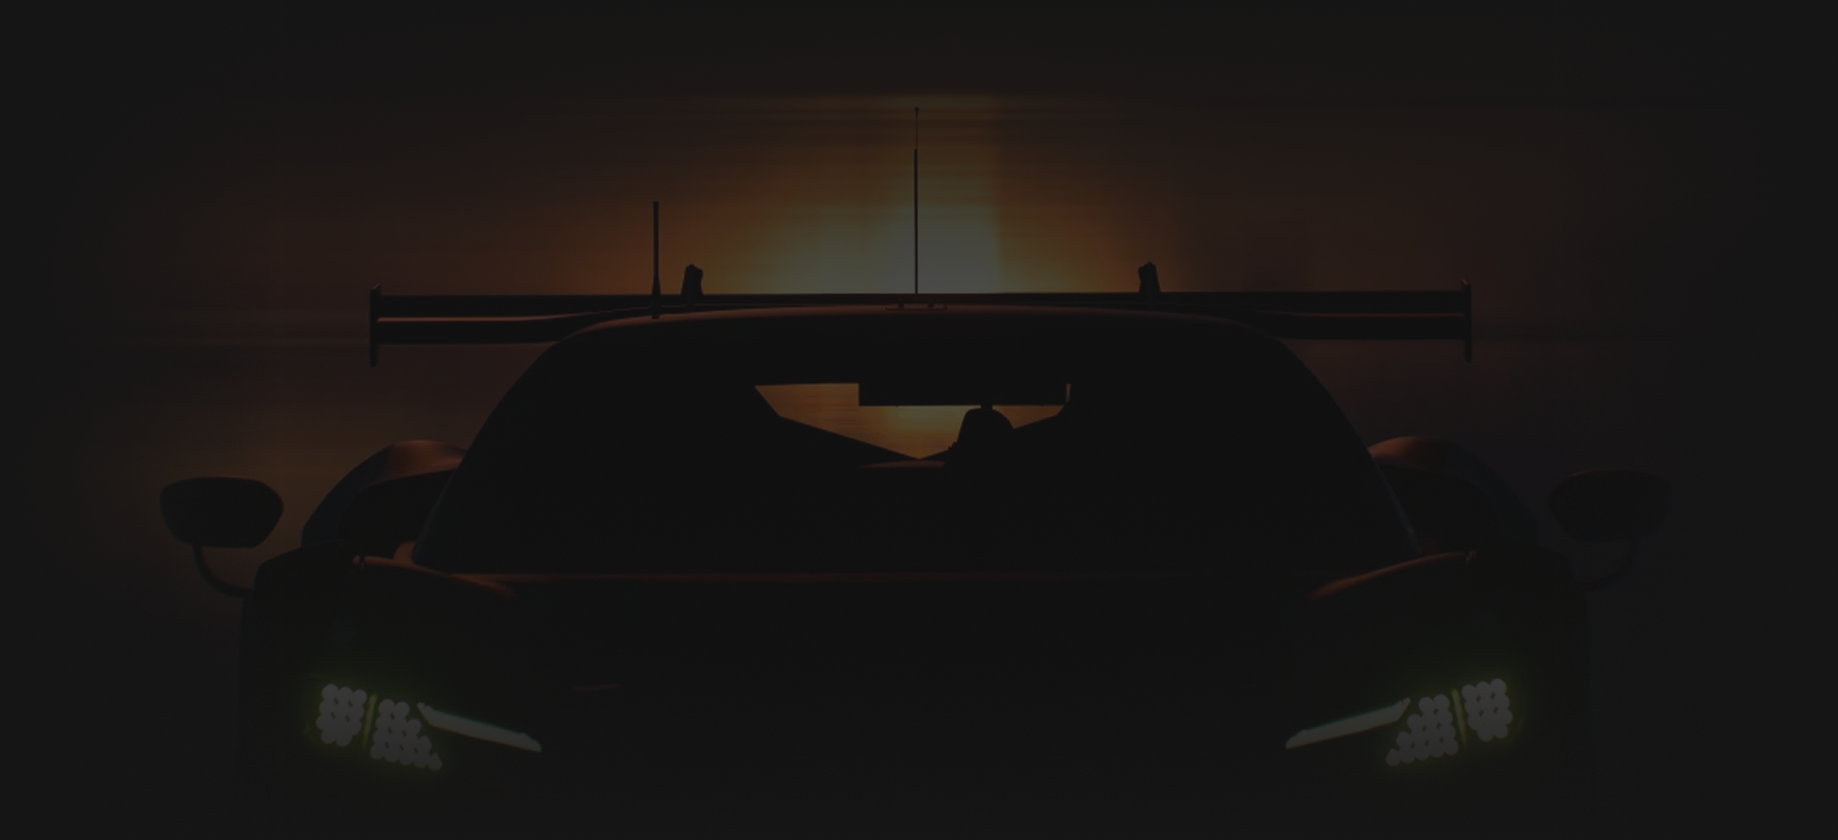
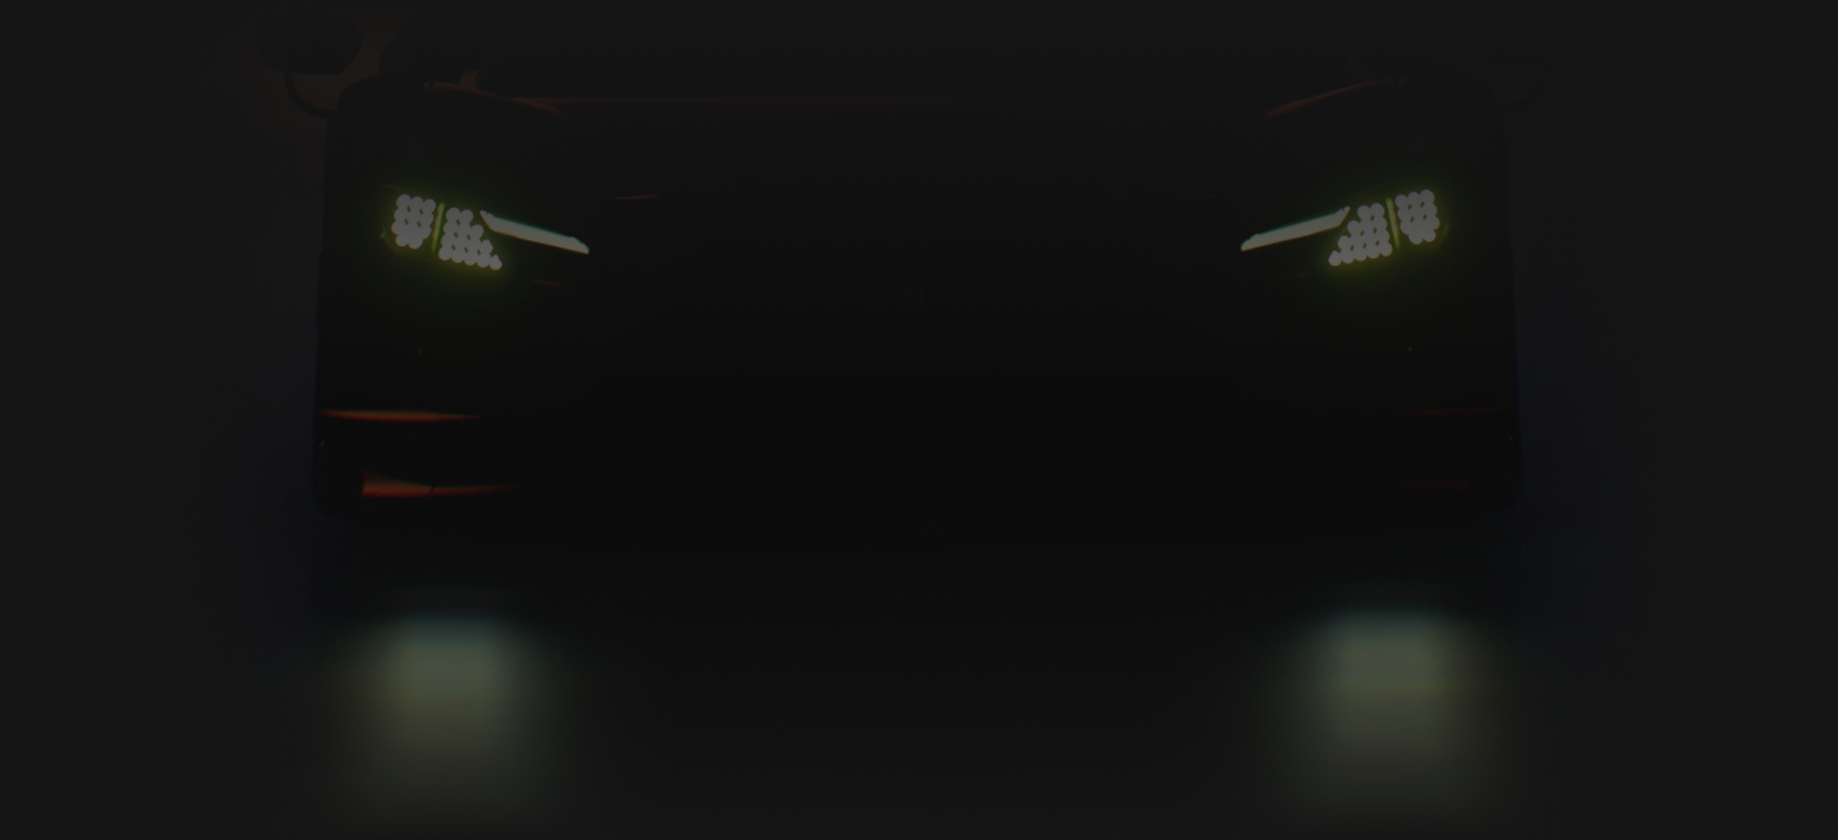
feat: add new coming soon league form; create report panel; add new mobile hero image

diff --git a/src/features/leagues/forms/Create/EmptyCreate/EmptyCreate.tsx b/src/features/leagues/forms/Create/EmptyCreate/EmptyCreate.tsx
@@ -1,0 +1,24 @@
+import { navigate } from "@/app/navigation/navigation";
+import ArrowForward from "@assets/Icon/Arrow_Forward.svg?react"
+import FormBlock from "@/components/Forms/FormBlock/FormBlock";
+
+const EmptyCreate = () => {
+  return (
+    <FormBlock
+      title={"Create New League"}
+      question="Coming Soon"
+      helperMessage="You can create your very own league after the VIP GT World Championship’s grand final wraps up on 26 Sep 2026."
+      buttons={{
+        onContinue: {
+          label: "Back to Homepage",
+          action: () => {
+            navigate("/");
+          },
+          rightIcon: <ArrowForward />,
+        },
+      }}
+    />
+  );
+};
+
+export default EmptyCreate;

diff --git a/src/features/panels/reportIncident/ReportIncident.tsx b/src/features/panels/reportIncident/ReportIncident.tsx
@@ -1,0 +1,17 @@
+import ReportIcon from "@assets/Icon/Report.svg?react";
+import EmptyMessage from "@/components/Messages/EmptyMessage/EmptyMessage";
+import PanelLayout from "@/components/Panels/components/PanelLayout/PanelLayout";
+
+const ReportIncident = () => {
+  return (
+    <PanelLayout panelTitle="Report Incident" panelTitleIcon={<ReportIcon />}>
+      <EmptyMessage
+        icon={<ReportIcon />}
+        title="Coming Soon"
+        subtitle="Report any incidents to the Stewards when this feature is released."
+      />
+    </PanelLayout>
+  );
+};
+
+export default ReportIncident;

diff --git a/src/pages/ComingSoon/ComingSoon.styles.ts b/src/pages/ComingSoon/ComingSoon.styles.ts
@@ -1,0 +1,14 @@
+import styled from "styled-components";
+import { designTokens } from "@/app/design/tokens";
+
+const { layout, colors } = designTokens;
+
+export const PageWrapper = styled.div`
+  display: flex;
+  width: 100%;
+  flex-direction: column;
+  align-items: center;
+  justify-content: center;
+  padding: ${layout.space.xxxLarge} ${layout.space.medium};
+  background-color: ${colors.base.base2};
+`;

diff --git a/src/pages/ComingSoon/ComingSoon.tsx b/src/pages/ComingSoon/ComingSoon.tsx
@@ -1,0 +1,13 @@
+import EmptyCreate from "@/features/leagues/forms/Create/EmptyCreate/EmptyCreate"
+import { PageWrapper } from "./ComingSoon.styles"
+
+
+const ComingSoon = () => {
+  return (
+    <PageWrapper>
+      <EmptyCreate />
+    </PageWrapper>
+  )
+}
+
+export default ComingSoon

diff --git a/src/pages/League/components/tabs/Schedule/ScheduleLineup.tsx b/src/pages/League/components/tabs/Schedule/ScheduleLineup.tsx
@@ -1,5 +1,6 @@
 import { useMemo, useState } from "react";
 import { useModal } from "@/providers/modal/useModal";
+import { usePanel } from "@/providers/panel/usePanel";
 import SetupIcon from "@assets/Icon/Season_Setup.svg?react";
 import PlaceholderImage from "@assets/Cars/Hidden.png";
 import EmptyMessage from "@/components/Messages/EmptyMessage/EmptyMessage";
@@ -28,6 +29,7 @@ type ScheduleProps = {
 
 const ScheduleLineup = ({ seasonStatus, seasonData }: ScheduleProps) => {
   const { openModal } = useModal();
+  const { openPanel } = usePanel(); 
   const [selectedDivisionLabel, setSelectedDivisionLabel] = useState("");
   const { data: carsData } = useGetCarsQuery();
   const seasonDivisions = useLeagueSeasonDivisions(seasonData?.id);
@@ -201,6 +203,10 @@ const ScheduleLineup = ({ seasonStatus, seasonData }: ScheduleProps) => {
     );
   }
 
+  const openReportPanel = () => {
+    return openPanel("REPORT");
+  }
+
   const openOnTheGridModal = (eventId: string) => {
     if (!seasonData) {
       return;
@@ -310,6 +316,9 @@ const ScheduleLineup = ({ seasonStatus, seasonData }: ScheduleProps) => {
                       }
                     : {}),
                 }))}
+                reportButton={{
+                  onClick: () => openReportPanel(),
+                }}
                 briefingButton={{
                   onClick: () => openBriefingModal(round.roundId)
                 }}

diff --git a/src/app/routes/routes.tsx b/src/app/routes/routes.tsx
@@ -1,4 +1,5 @@
 import AlphaHomepage from "@/pages/AlphaHomepage/AlphaHomepage";
+import ComingSoon from "@/pages/ComingSoon/ComingSoon";
 import CreateAccount from "@/pages/CreateAccount/CreateAccount";
 import CreateLeague from "@/pages/CreateLeague/CreateLeague";
 import CreateProfile from "@/pages/CreateProfile/CreateProfile";
@@ -88,6 +89,11 @@ const DEV_ROUTES: Route[] = [
     element: <CreateLeague />,
     navbar: "core",
     protected: true,
+  },
+  {
+    path: "/coming-soon",
+    element: <ComingSoon />,
+    navbar: "core",
   },
   {
     path: "/league/:leagueId",

diff --git a/src/pages/Hompage/Homepage.tsx b/src/pages/Hompage/Homepage.tsx
@@ -232,6 +232,9 @@ const Homepage = () => {
   };
 
   const handleCreate = (type: string) => {
+    if (type === "league") {
+      return navigate("/coming-soon");
+    }
     track("navigation_click", { create_type: type, page_section: "Homepage" });
     navigate(`/create-${type.toLowerCase()}`);
     return;
@@ -474,7 +477,7 @@ const Homepage = () => {
                     onClick={
                       user
                         ? () => {
-                            handleCreate("League");
+                            handleCreate("league");
                           }
                         : handleGetStarted
                     }

diff --git a/src/features/panels/panel.variants.ts b/src/features/panels/panel.variants.ts
@@ -24,6 +24,7 @@ import AdvancedSettings from "./events/forms/AdvancedSettings/AdvancedSettings";
 import SquadChat from "./squadChat/SquadChat";
 import Announcements from "./announcements/Announcements";
 import LeagueChat from "./leagueChat/LeagueChat";
+import ReportIncident from "./reportIncident/ReportIncident";
 
 
 // eslint-disable-next-line @typescript-eslint/no-explicit-any
@@ -53,4 +54,5 @@ export const panelVariants: Record<PanelTypes, React.ComponentType<any>> = {
   SQUAD_CHAT: SquadChat,
   LEAGUE_CHAT: LeagueChat,
   LEAGUE_ANNOUNCEMENTS: Announcements,
+  REPORT: ReportIncident,
 };

diff --git a/src/types/panel.types.ts b/src/types/panel.types.ts
@@ -25,6 +25,7 @@ export type PanelTypes =
   | "SQUAD_CHAT"
   | "LEAGUE_CHAT"
   | "LEAGUE_ANNOUNCEMENTS"
+  | "REPORT"
   
 
 export type PanelProviderTypes = "none" | PanelTypes;